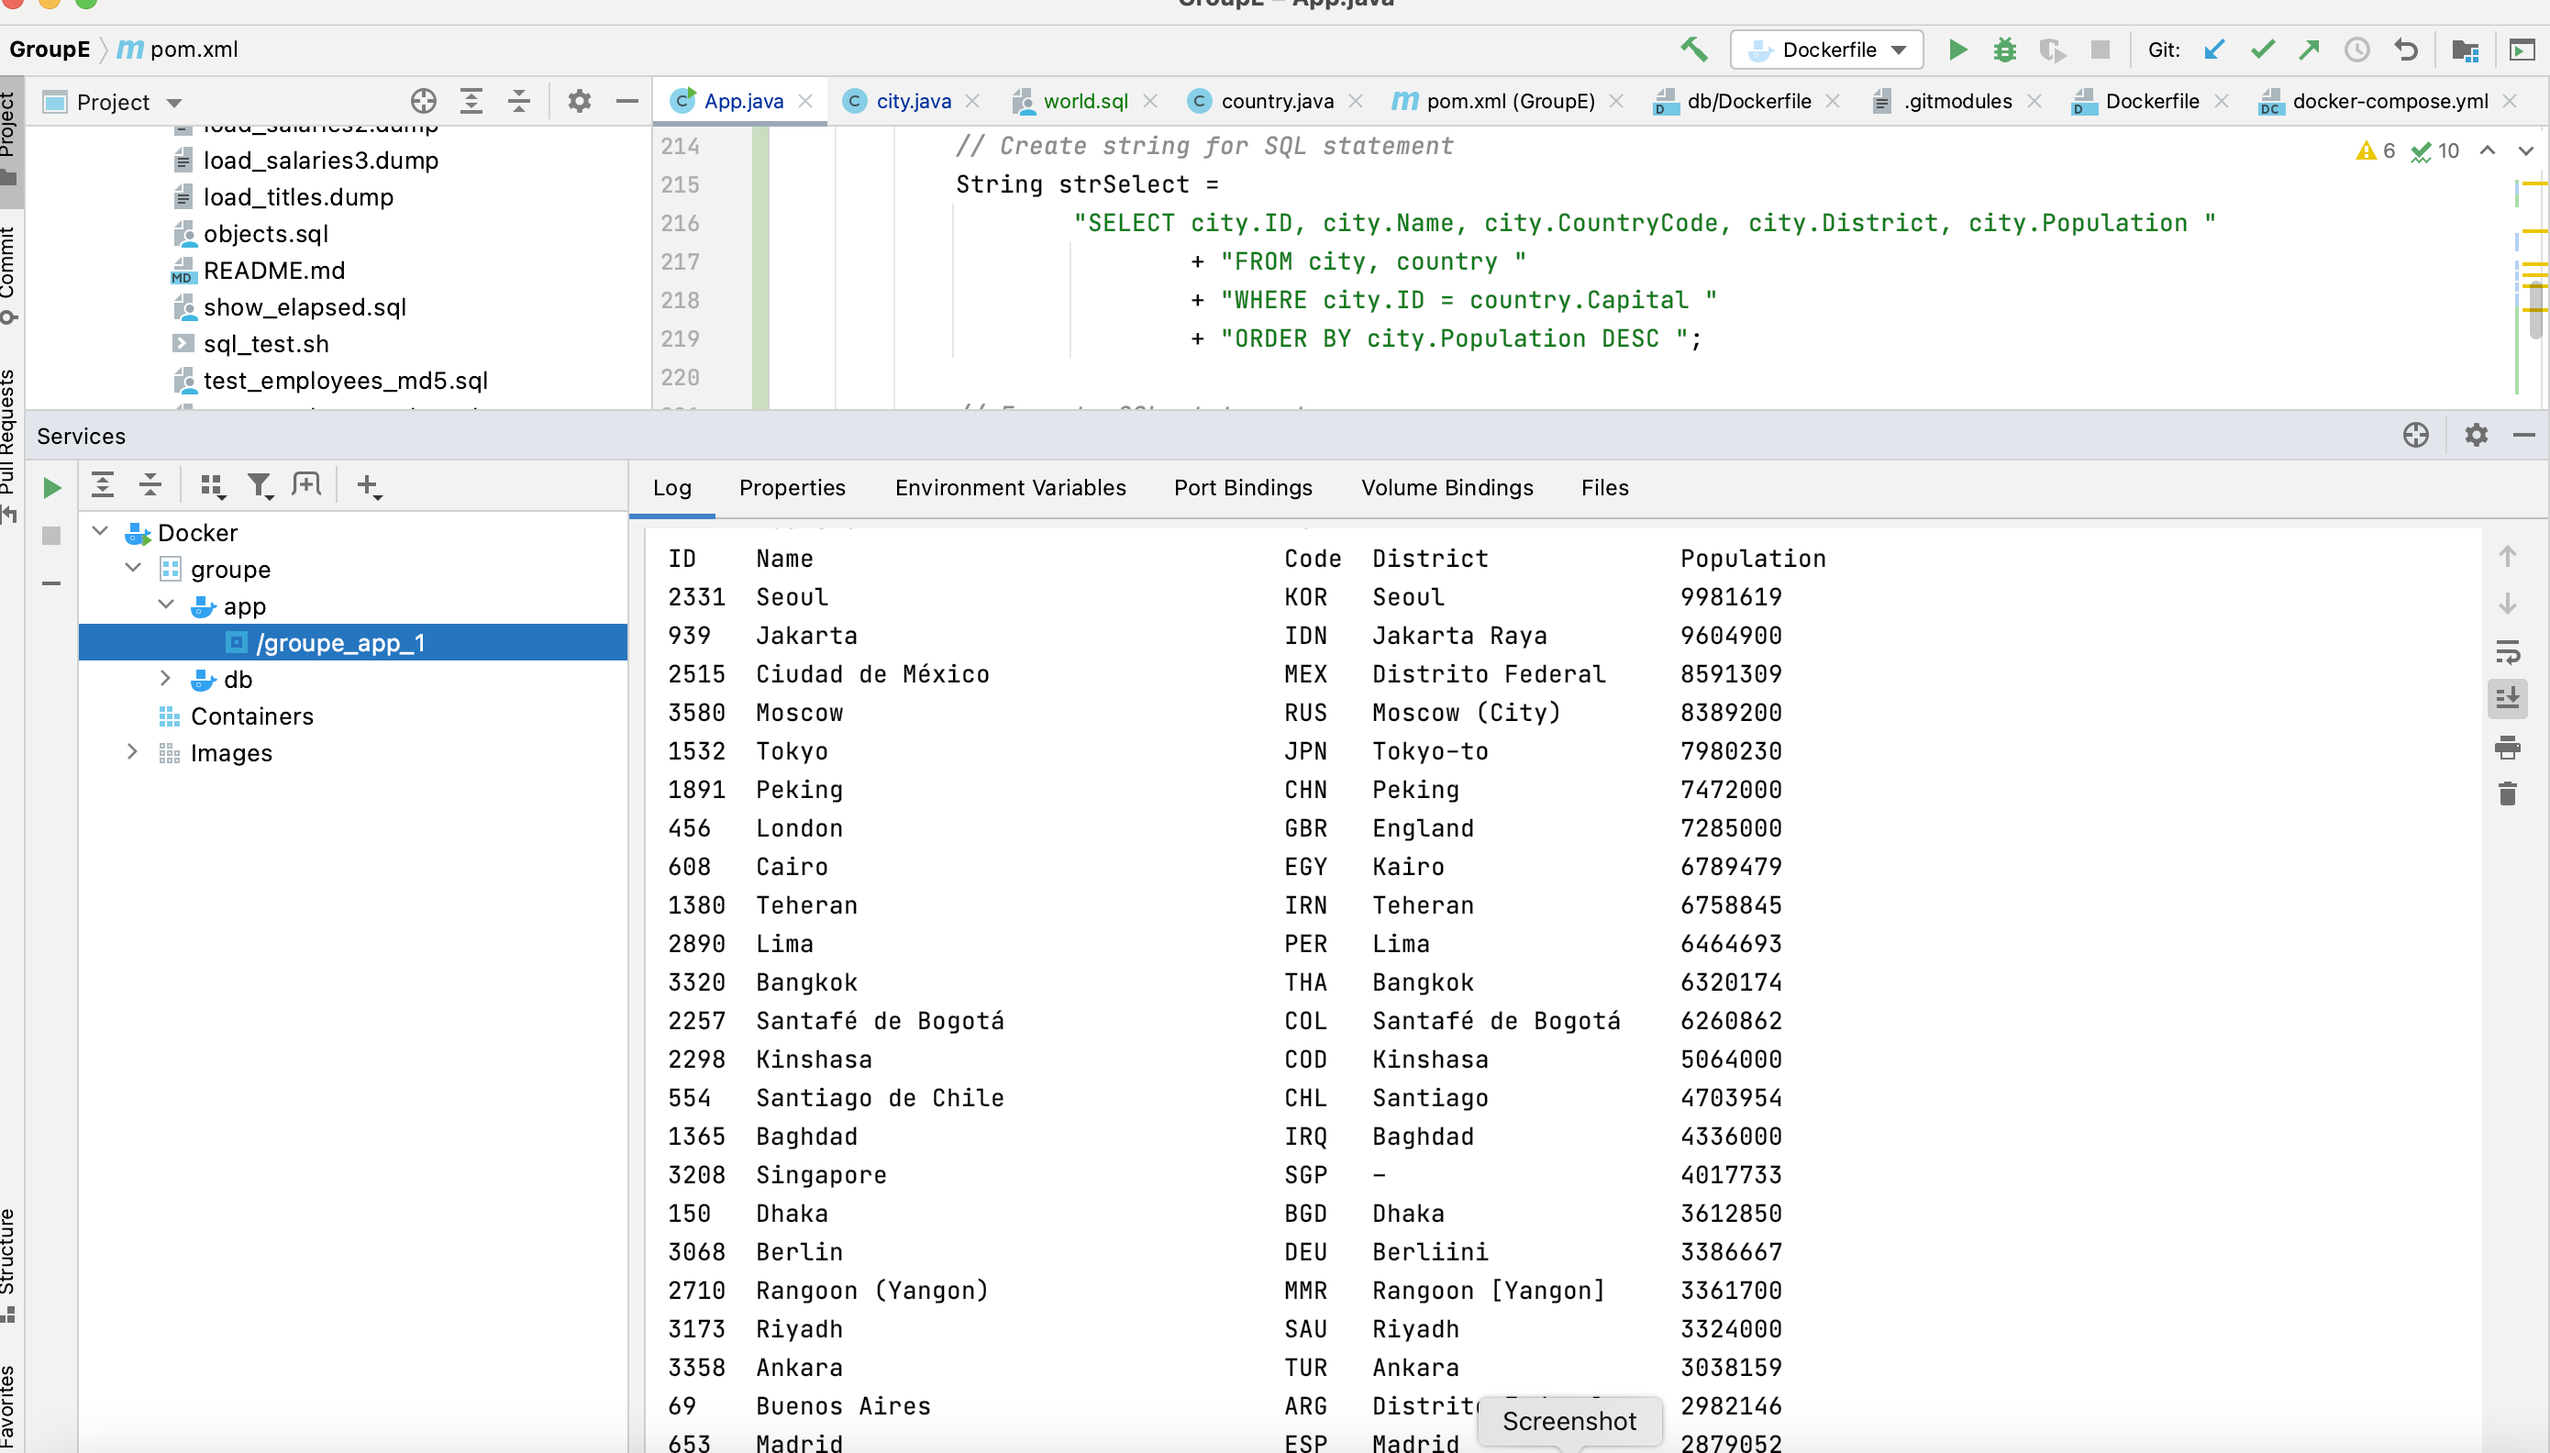
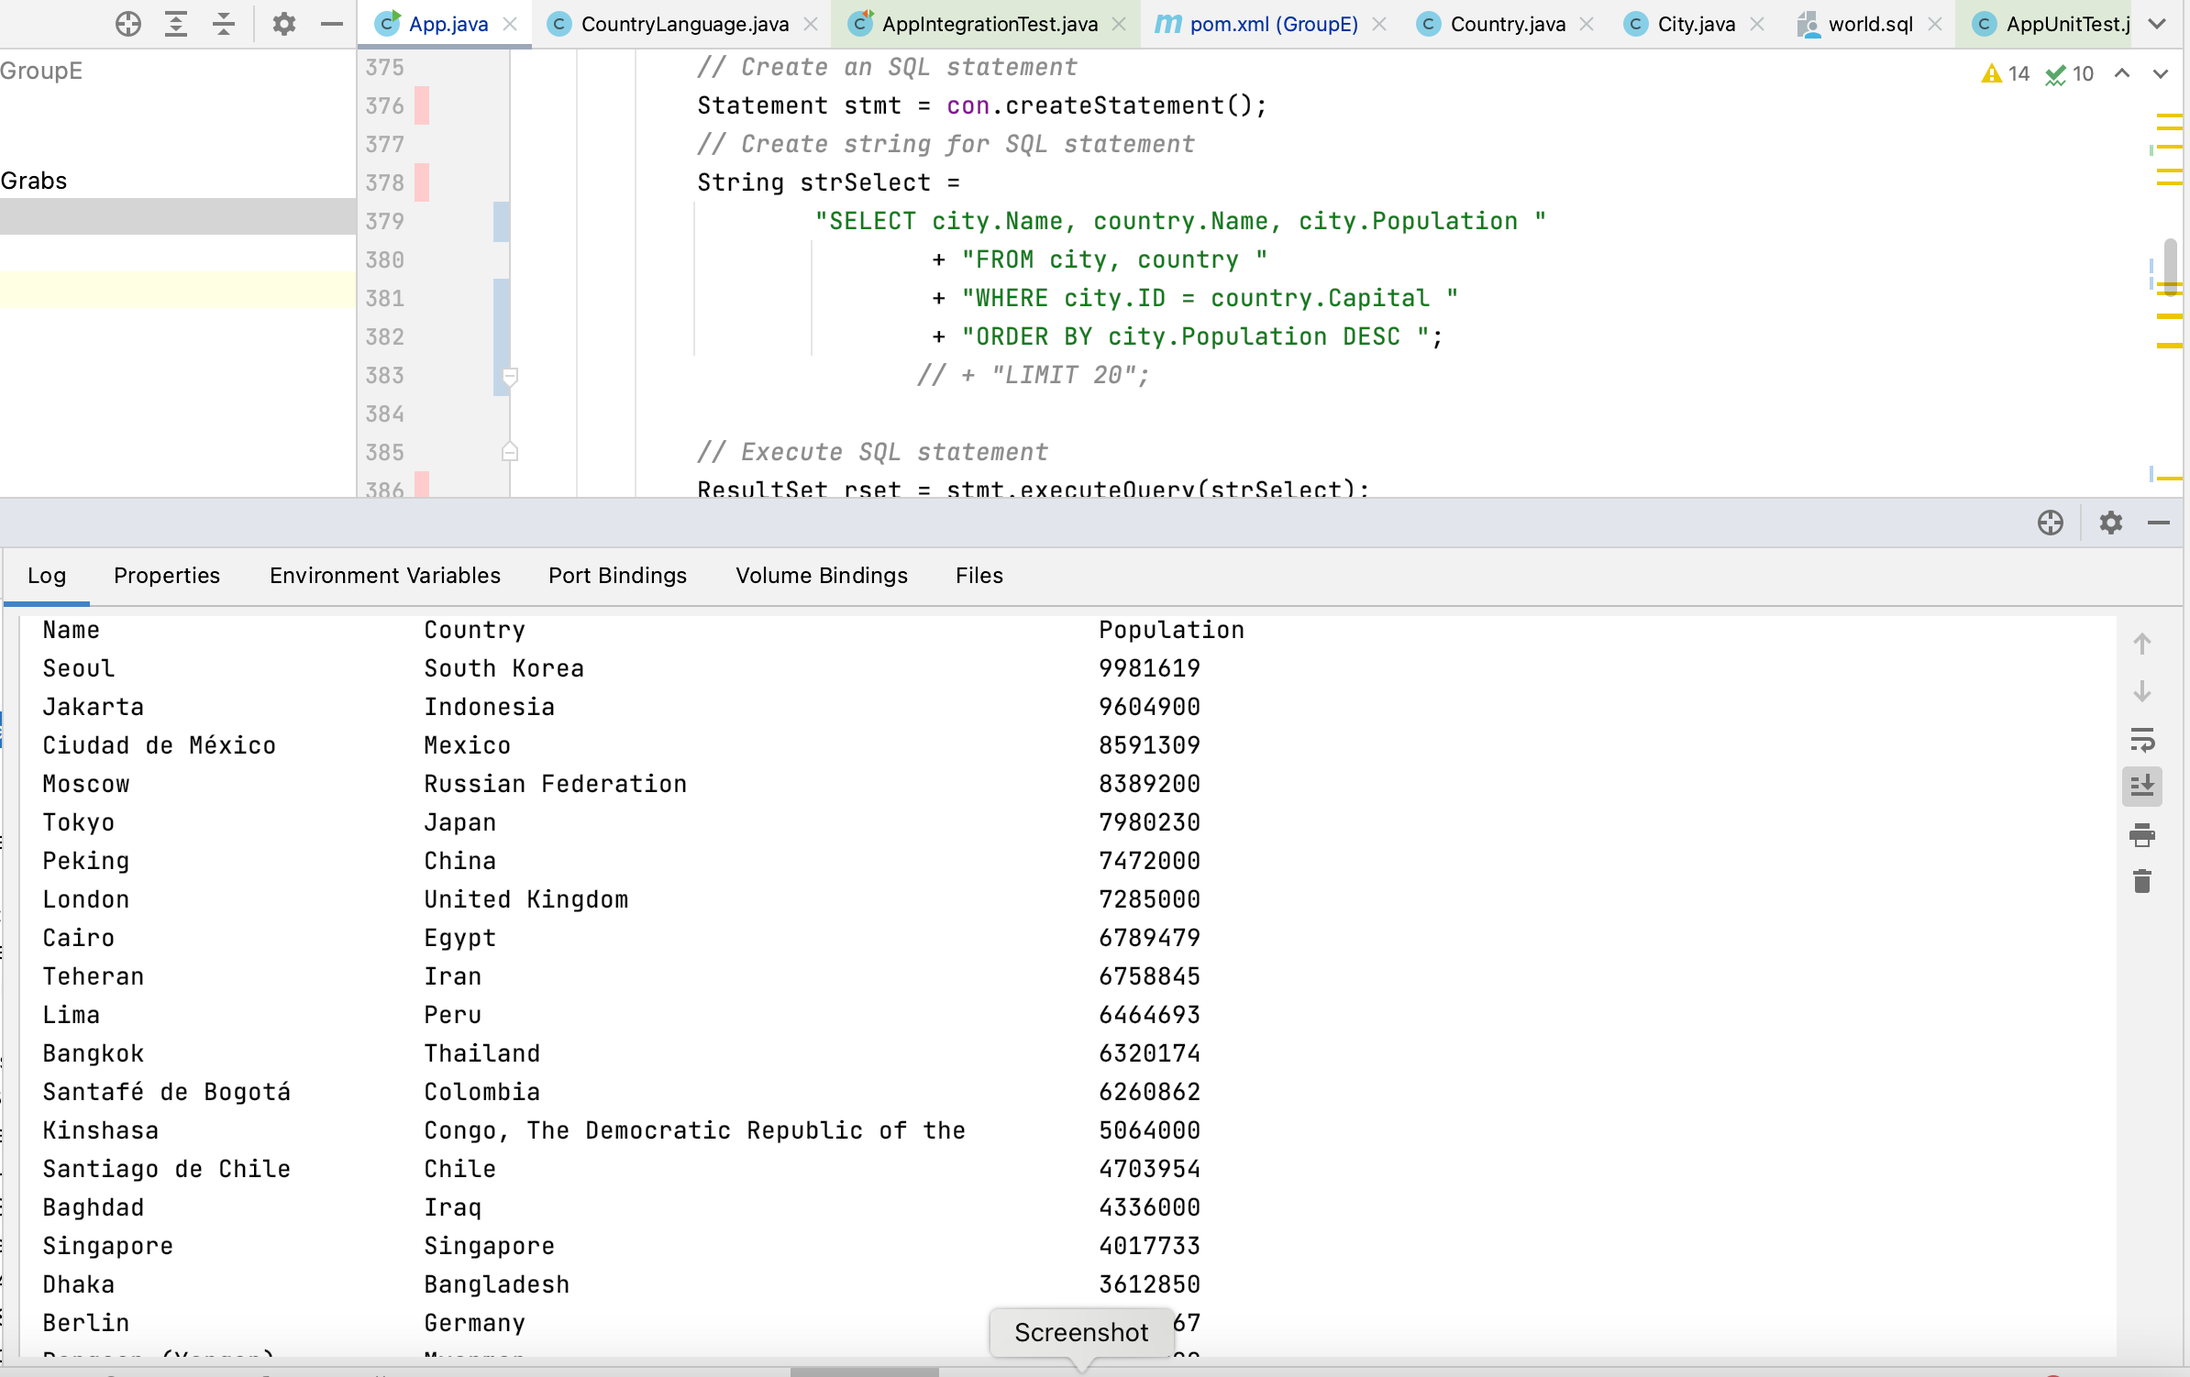
Adding Capital City cards and testing CT 3 APR

diff --git a/src/main/java/com/napier/sem/App.java b/src/main/java/com/napier/sem/App.java
@@ -113,11 +113,23 @@ public class App {
          * Capital City Related Reports Section
          */
 
-        // Print city population report grouped by country
-        //a.printCapitalCityPopulations(cities);
+        // Print capital city population report grouped by country
+        a.printCapitalCityPopulations(cities);
 
-        // Print city population report grouped by country
-        //a.printCapitalCityContPopulations(cities);
+        // Print capital city population report grouped by continent
+        a.printCapitalCityContPopulations(cities);
+
+        // Print city population report grouped by region
+        //a.printCapitalCityRegPopulations(cities);
+
+        // Print Top 20 capital city populations
+        //a.printTopCapitalCityPopulations(cities);
+
+        // Print Top 20 capital city populations by continent
+        //a.printTopCapitalCityContPopulations(cities);
+
+        // Print Top 20 capital city populations by region
+        //a.printTopCapitalCityRegPopulations(cities);
 
 
         // Disconnect from database
@@ -364,11 +376,11 @@ public class App {
             Statement stmt = con.createStatement();
             // Create string for SQL statement
             String strSelect =
-                    "SELECT city.Name, country.Name, city.District, city.Population "
+                    "SELECT city.Name, country.Name, city.Population "
                             + "FROM city, country "
-                            + "WHERE city.CountryCode = country.Code AND city.District = 'Punjab' "
-                            + "ORDER BY city.Population DESC "
-                            + "LIMIT 20";
+                            + "WHERE city.ID = country.Capital "
+                            + "ORDER BY country.Continent ASC, city.Population DESC ";
+                           // + "LIMIT 20";
 
             // Execute SQL statement
             ResultSet rset = stmt.executeQuery(strSelect);
@@ -379,7 +391,7 @@ public class App {
                 City city2 = new City();
                 city2.name = rset.getString("city.Name");
                 city2.country = rset.getString("country.Name");
-                city2.district = rset.getString("city.District");
+                //city2.district = rset.getString("city.District");
                 city2.population = rset.getInt("city.Population");
                 cities.add(city2);
             }
@@ -406,15 +418,15 @@ public class App {
             return;
         }
         // Print header
-        System.out.printf("%-25s %-40s %-25s %-12s \n", "Name", "Country", "District", "Population");
+        System.out.printf("%-25s %-45s %-12s \n", "Name", "Country", "Population");
         // Loop over all cities in the list
         for (City city2 : cities)
         {
             if (city2 == null)
                 continue;
             String city_string =
-                    String.format("%-25s %-40s %-25s %-12s",
-                            city2.name, city2.country, city2.district, city2.population);
+                    String.format("%-25s %-45s %-12s",
+                            city2.name, city2.country, city2.population);
             System.out.println(city_string);
         }
     }
@@ -843,51 +855,51 @@ public class App {
      * Prints a list of capital cities by pop decreasing.
      * @param cities list of countries to print.
      */
-    /**public void printCapitalCityPopulations(ArrayList<City> cities)
+    public void printCapitalCityPopulations(ArrayList<City> cities)
      {
-     // Check city is not null
-     if (cities == null)
-     {
-     System.out.println("No cities");
-     return;
-     }
-     // Print header
-     System.out.printf("%-5s %-35s %-5s %-20s %-12s \n", "ID", "Name", "Code", "District", "Population");
-     // Loop over all cities in the list
-     for (City city2 : cities)
-     {
-     if (city2 == null)
-     continue;
-     String city_string =
-     String.format("%-5s %-35s %-5s %-20s %-12s",
-     city2.iD, city2.name, city2.countryCode, city2.district, city2.population);
-     System.out.println(city_string);
-     }
+        // Check city is not null
+        if (cities == null)
+        {
+            System.out.println("No cities");
+            return;
+        }
+        // Print header
+        System.out.printf("%-35s %-45s %-12s \n","Name", "Country", "Population");
+        // Loop over all cities in the list
+        for (City city2 : cities)
+        {
+            if (city2 == null)
+                continue;
+            String city_string =
+                String.format("%-35s %-45s %-12s",
+                    city2.name, city2.country, city2.population);
+            System.out.println(city_string);
+        }
      }
      /**
      * Prints a list of capital cities within a specific continent by pop decreasing.
      * @param cities list of countries to print.
      */
-    /**public void printCapitalCityContPopulations(ArrayList<City> cities)
+    public void printCapitalCityContPopulations(ArrayList<City> cities)
      {
-     // Check city is not null
-     if (cities == null)
+        // Check city is not null
+        if (cities == null)
      {
-     System.out.println("No cities");
-     return;
+            System.out.println("No cities");
+            return;
      }
-     // Print header
-     System.out.printf("%-5s %-35s %-5s %-20s %-12s \n", "ID", "Name", "Code", "District", "Population");
-     // Loop over all cities in the list
-     for (City city2 : cities)
-     {
-     if (city2 == null)
-     continue;
-     String city_string =
-     String.format("%-5s %-35s %-5s %-20s %-12s",
-     city2.iD, city2.name, city2.countryCode, city2.district, city2.population);
-     System.out.println(city_string);
-     }
+        // Print header
+        System.out.printf("%-35s %-45s %-12s \n", "Name", "Country", "Population");
+        // Loop over all cities in the list
+        for (City city2 : cities)
+        {
+            if (city2 == null)
+                continue;
+            String city_string =
+                String.format("%-35s %-45s %-12s",
+                        city2.name, city2.country, city2.population);
+                System.out.println(city_string);
+        }
      }
 
     /**

diff --git a/src/test/java/com/napier/sem/AppUnitTest.java b/src/test/java/com/napier/sem/AppUnitTest.java
@@ -576,6 +576,72 @@ public class AppUnitTest {
         cities.add(city2);
         app.printTop20CityDistPopulations(cities);
     }
+    @Test
+    void printCapitalCityPopulationsTestNull()
+    {
+        app.printCapitalCityPopulations(null);
+    }
+
+    @Test
+    void printCapitalCityPopulationsTestEmpty()
+    {
+        ArrayList<City> cities = new ArrayList<>();
+        app.printCapitalCityPopulations(cities);
+    }
+
+    @Test
+    void printCapitalCityPopulationsTestContainsNull()
+    {
+        ArrayList<City> cities = new ArrayList<>();
+        cities.add(null);
+        app.printCapitalCityPopulations(cities);
+    }
+    @Test
+    void printCapitalCityPopulations()
+    {
+        ArrayList<City> cities = new ArrayList<>();
+        City city2 = new City();
+        city2.iD = 1;
+        city2.name = "Kabul";
+        city2.countryCode = "AFG";
+        city2.district = "Kabol";
+        city2.population = 1780000;
+        cities.add(city2);
+        app.printCapitalCityPopulations(cities);
+    }
+    @Test
+    void printCapitalCityContPopulationsTestNull()
+    {
+        app.printCapitalCityContPopulations(null);
+    }
+
+    @Test
+    void printCapitalCityContPopulationsTestEmpty()
+    {
+        ArrayList<City> cities = new ArrayList<>();
+        app.printCapitalCityContPopulations(cities);
+    }
+
+    @Test
+    void printCapitalCityContPopulationsTestContainsNull()
+    {
+        ArrayList<City> cities = new ArrayList<>();
+        cities.add(null);
+        app.printCapitalCityContPopulations(cities);
+    }
+    @Test
+    void printCapitalCityContPopulations()
+    {
+        ArrayList<City> cities = new ArrayList<>();
+        City city2 = new City();
+        city2.iD = 1;
+        city2.name = "Kabul";
+        city2.countryCode = "AFG";
+        city2.district = "Kabol";
+        city2.population = 1780000;
+        cities.add(city2);
+        app.printCapitalCityContPopulations(cities);
+    }
 }
     /**@Test
     void printCapitalCityPopulationsTestNull()
